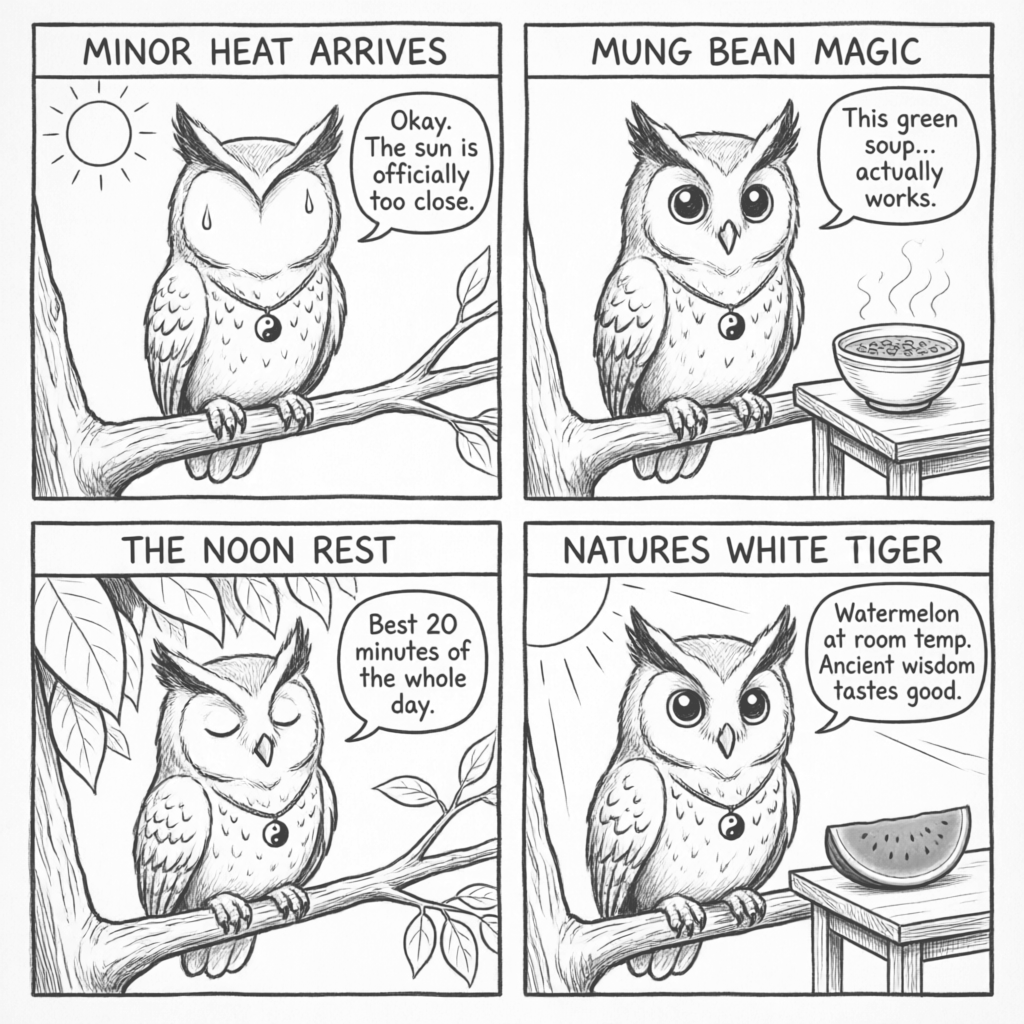
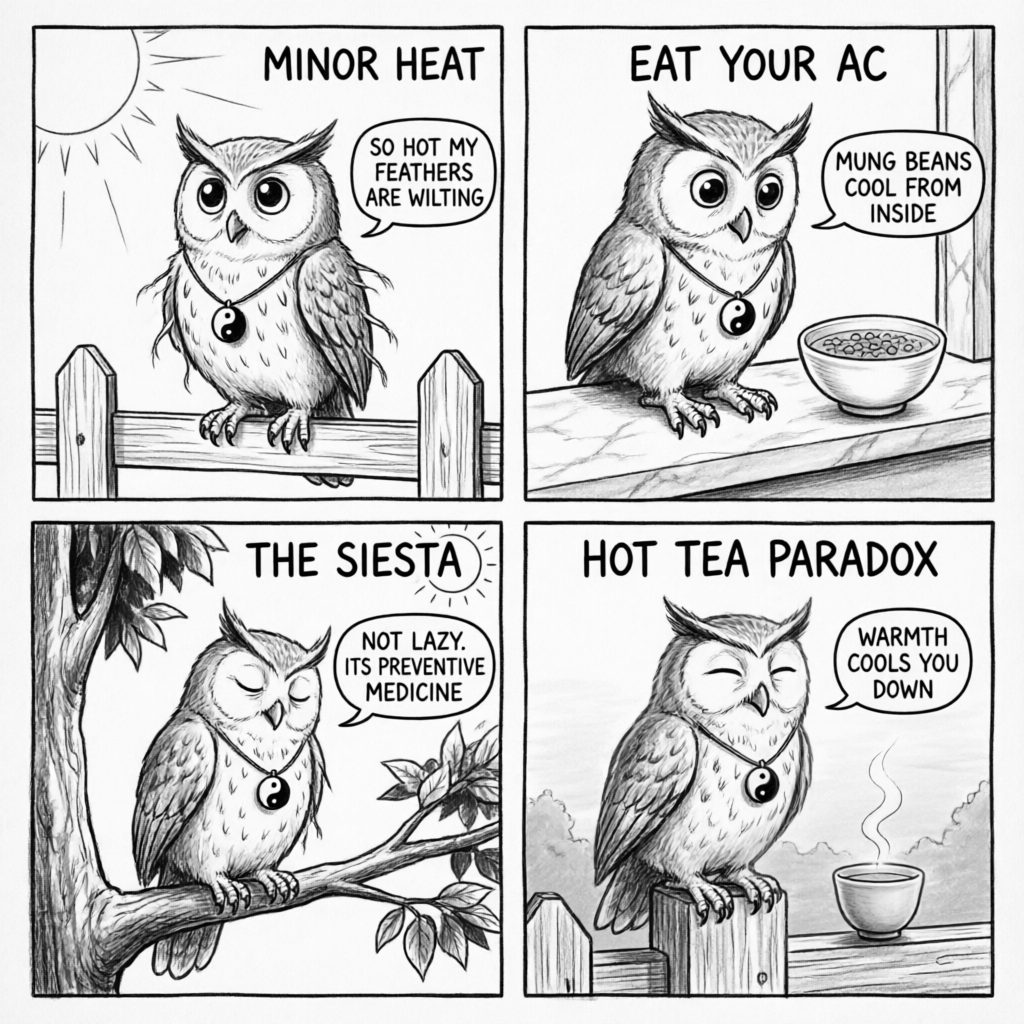
feat: rewrite #33 J01 Minor Heat — Gemini 2.5 Pro + Opus 4 review (R3 8.8)

diff --git a/posts/33-how-ancient-china-survived-summer-without-air-conditioning.html b/posts/33-how-ancient-china-survived-summer-without-air-conditioning.html
@@ -17,7 +17,7 @@
 <meta name="description" content="On Xiaoshu (Minor Heat), explore how ancient China's 24 solar terms organized an entire civilization around the body's relationship with summer — and what mung bean soup, the midday nap, and classical TCM can teach us about surviving the heat.">
 <meta property="og:title" content="How Ancient China Survived Summer Without Air Conditioning (And What That Teaches Us Today)">
 <meta property="og:description" content="On Xiaoshu (Minor Heat), explore how ancient China's 24 solar terms organized an entire civilization around the body's relationship with summer — and what mung bean soup, the midday nap, and classical TCM can teach us about surviving the heat.">
-<meta property="og:image" content="https://tcmway.net/images/brand/logo-tcmway-header.png">
+<meta property="og:image" content="https://tcmway.net/images/comic-33-bw.png">
 <meta property="og:url" content="https://tcmway.net/posts/33-how-ancient-china-survived-summer-without-air-conditioning.html">
 <meta property="og:type" content="article">
 <meta property="og:site_name" content="TCM Way">
@@ -97,98 +97,141 @@
   <div class="meta">July 7, 2026 · By Ollie</div>
   <div class="last-updated" style="color:var(--subtle);font-size:0.85rem;margin-top:0.3rem;">Last updated: July 7, 2026</div>
 
-<p>Before air conditioning. Before electric fans. Before ice delivery trucks. Before any of the technology we now consider essential for surviving July, there were 1.5 billion people living through China's brutal summers. For four thousand years. Not barely surviving — thriving. Writing poetry about cicadas. Harvesting crops on schedule. Raising children through heat waves that would send modern city-dwellers to the emergency room.</p>
-<p>How?</p>
+
+<p>It’s that time of year. Outside, the pavement is shimmering and the thermometer is pushing 97°F (36°C). Inside, you’ve got the air conditioner blasting so hard you’re thinking about putting on a sweater. The hum of the machine is the soundtrack to your summer.</p>
+
+<p>Now, picture this: the Tang Dynasty, around 800 AD. The summers are just as brutal, if not more so. There’s no electricity, no freon, no remote control to tap. Yet, people are not just surviving—they’re thriving. They’re writing world-renowned poetry, building magnificent cities, and raising families. How on earth did they do it?</p>
 <div class="ollie-take-badge">
   <img src="/images/brand/pendant-mini-40.png" alt="" width="22" height="22">
   <span>Ollie's Take</span>
 </div>
 <img class="comic-break" src="/images/comic-33-bw.png" alt="Ollie the screech owl experiences Minor Heat — from blazing sun to mung bean soup, napping, and watermelon at dusk" loading="lazy">
-<p>The answer isn't one trick or one food or one herb. It's an entire system — a way of organizing time itself around the body's relationship with the natural world. And today, on the first day of Xiaoshu (Minor Heat), we're going to explore how that system works, and what it can teach those of us who've forgotten how to live with summer instead of hiding from it.</p>
-<h2>What Is Minor Heat? The Calendar Your Body Already Knows</h2>
-<p>The 24 solar terms are not astrology. They're not folklore. They're an agricultural-medical calendar refined over more than two thousand years — arguably the longest-running public health system in human history.</p>
-<p>Each term marks a precise astronomical position: the sun reaching a specific degree of celestial longitude. Minor Heat arrives when the sun hits 105 degrees. It's the eleventh term in the cycle, and its name tells you exactly what to expect: the heat is no longer a suggestion, but it hasn't reached its peak. That comes later, at Major Heat (Dashu), two weeks from now.</p>
-<p>In the Yuan Dynasty text <em>Explanations of the 72 Phenological Terms</em> (Yueling Qishier Hou Jijie), Minor Heat is described through three natural signs: hot winds arrive, crickets move from the fields into courtyards seeking shade, and young eagles begin learning to hunt. These aren't poetic flourishes — they're environmental data points. When the crickets come to your door, it's time to adjust how you eat, sleep, and move.</p>
-<p>The core philosophy here matters: ancient Chinese didn't fight the heat, and they didn't hide from it. They adapted to it. This is TCM's deepest instinct — harmony over conquest, alignment over resistance. Summer comes; your job is not to defeat it but to move with it.</p>
-<h2>Your Body in Minor Heat: Why You Feel Like You're Losing Your Mind</h2>
-<p>In TCM's Five Element framework, summer belongs to Fire, and Fire connects to the Heart. Not just the physical organ — the Heart system, which includes what we'd call cardiovascular function, but also consciousness itself.</p>
-<p>The Heart houses the Shen — your spirit, your mind, your capacity for clear thought and emotional stability. When external summer heat rises, it can resonate with the Heart's internal fire, causing what TCM calls Heart Fire Blazing Upward. The symptoms are surprisingly specific: you feel irritable for no reason, your sleep gets restless and fragmented, your mouth is dry even when you're drinking water, and the tip of your tongue — if you check in the mirror — is noticeably redder than the rest.</p>
-<p>This is why hot weather makes people aggressive. It's not just discomfort; it's a physiological pattern.</p>
-<p>Ollie, perched on a low branch with wings slightly spread to release body heat, demonstrates this perfectly. When his ear tufts start drooping, he knows it's time to find shade. Your body sends similar signals — that afternoon irritability, that restless energy with nowhere to go — it's not your personality failing. It's your Heart Fire asking for attention.</p>
-<p>The <em>Huangdi Neijing</em> (Yellow Emperor's Inner Classic), written over two thousand years ago, describes summer's effect with precision:</p>
-<p>> "In the three months of summer, heaven and earth unite, all things flower and bear fruit. Go to bed late and rise early, do not despise the sun. Let your spirit be free of anger. Allow beauty to manifest fully. Let the Qi flow as if your inner self were in love with the outer world. This is the Way of nourishing growth in summer."</p>
-<p>That phrase — "do not despise the sun" (wu yan yu ri) — doesn't mean bake yourself on a beach until you blister. It means don't seal yourself inside an air-conditioned box so completely that your body loses its ability to adapt. The body needs a relationship with the season it's living in, even if that relationship is carefully managed.</p>
-<p>Ollie knows this. He's a screech owl — a creature designed for cool nights, not blazing afternoons. During Minor Heat, you'll find him under the biggest leaf he can locate, wings slightly spread to release body heat, pendant catching the dappled light. "Summer is lovely," he'll tell you, blinking slowly, "from approximately 4 AM to 6 AM. The rest of it is a personal attack."</p>
-<h2>What to Eat: The TCM Summer Paradox</h2>
-<p>Here's where Western intuition and TCM logic diverge sharply. You're hot. You want ice water. You want a massive cold smoothie. You want to eat salad three meals a day.</p>
-<p>TCM says: that is exactly how you make yourself sick in summer.</p>
-<p>The reasoning is counterintuitive but internally consistent. Your digestive system — the Spleen and Stomach in TCM terms — runs on warmth. It's a cooking pot. When you pour ice water into a hot cooking pot, the pot cools down. Digestion slows. Food sits undigested. This undigested matter becomes what TCM calls "dampness" — a heavy, sticky, obstructive quality that shows up as bloating, loose stools, brain fog, and that specific summer lethargy that feels like you're walking through warm soup.</p>
-<p>The solution isn't to avoid anything cold-touch — it's to use foods that are cooling in their energetic nature while still being warm or room temperature in your mouth. This is the difference between "cold-natured" (liang xing) and "cold-temperature" (bing de). One works with your body; the other works against it.</p>
-<p><strong>Mung Bean Soup</strong> (Lü Dou Tang) is the undisputed king of Chinese summer drinks. Mung beans clear heat, relieve summer heat toxicity, and generate fluids. The <em>Compendium of Materia Medica</em> (Bencao Gangmu) by Li Shizhen documents its use going back centuries. One important rule: don't load it with sugar. A small piece of rock sugar is traditional; a Starbucks-level syrup dump cancels the cooling effect and creates dampness.</p>
-<p><strong>Watermelon</strong> (Xi Gua) has a TCM nickname that tells you everything you need to know: "Natural White Tiger Decoction." White Tiger Decoction (Bai Hu Tang) is one of the most powerful heat-clearing formulas in Chinese medicine, used for high fevers with four big symptoms — big thirst, big sweat, big pulse, big heat. Watermelon is food-grade Bai Hu Tang. It clears summer heat and generates fluids with remarkable speed. But eat it at room temperature — not ice-cold — and don't eat half a watermelon in one sitting. Too much cold-natured food, even at room temperature, can still damage the Spleen over time.</p>
-<p><strong>Bitter Melon</strong> (Ku Gua) is an acquired taste. The bitterness enters the Heart channel specifically, making it one of the most targeted foods for clearing Heart Fire. If Minor Heat has you irritable, restless, and tongue-tip-red, bitter melon is worth learning to tolerate. Stir-fry it with a little egg to take the edge off.</p>
-<p><strong>Chrysanthemum Tea</strong> (Ju Hua Cha) is the gentler option — a pale yellow tea made from dried chrysanthemum flowers. It's mildly cooling, supports the eyes through the Liver channel, and has been a Chinese summer staple since the Song Dynasty. For the modern office worker staring at screens while summer heat pounds the windows, chrysanthemum tea solves two problems at once.</p>
-<p>What to avoid entirely during Minor Heat: ice-cold drinks with meals (this is the biggest one — it's like throwing a fire extinguisher into your digestive furnace at the exact moment it's trying to process food), excessive raw salads (raw = cold nature + damp-producing), and heavy meals after 8 PM (your digestive fire is naturally weaker in the evening; asking it to process a steak at 10 PM in July is a recipe for waking up at 3 AM with stomach acid in your throat).</p>
-<p>Ollie, perched on a branch above a bowl of mung bean soup, tilts his head. "Humans drink iced lattes in 35-degree heat and then wonder why their stomach feels like a swamp. You wouldn't pour cold water into a running engine. Your Spleen is an engine. Treat it accordingly."</p>
-<h2>The Summer Nap: China's Most Underrated Health Practice</h2>
-<p>Somewhere along the way, Western culture decided naps were for toddlers and the unemployed. Chinese culture never got that memo, and the summer nap may be the single practice most worth importing.</p>
-<p>The TCM clock is specific: 11 AM to 1 PM is the Heart channel's peak period (wushi). This is when Heart Qi is naturally at its strongest — and, paradoxically, its most vulnerable. A short rest during this window supports Heart Yin, calms Heart Fire, and resets the Shen for the second half of the day.</p>
-<p>Modern science has caught up. A 2019 meta-analysis in <em>Sleep Medicine Reviews</em> found that midday napping of 20-30 minutes significantly improved cognitive performance, reduced subjective fatigue, and lowered afternoon cortisol levels. A 2020 study in <em>Heart</em> (the British cardiovascular journal) found that occasional napping was associated with a 48% lower risk of cardiovascular events. The mechanism, the researchers proposed, involved the nap's effect on stress hormones and blood pressure regulation — which maps directly onto TCM's understanding of Heart Fire calming during rest.</p>
-<p>The TCM version of the nap is not a deep, drooling, three-hour crash. It's 15 to 30 minutes. You don't need to fall into REM sleep. You just need to close your eyes, breathe slowly, and let your body temperature drop a fraction of a degree. Elevating your feet slightly helps — it supports venous return and takes pressure off the Heart. A thin cloth over your eyes blocks the liver-agitating brightness of midday.</p>
-<p>In offices across China during summer, this is completely normal. Colleagues pull out neck pillows after lunch, dim the lights, and rest for twenty minutes. Nobody thinks it's lazy. They think it's July, and they think July is hot, and they think hot bodies need rest. This is not cultural quirk — it's physiological literacy.</p>
-<h2>The Deeper Pattern: Why We Forgot How to Live With Seasons</h2>
-<p>The 24 solar terms didn't survive two millennia because they were quaint. They survived because they encoded real patterns about how human bodies interact with environmental cycles. Xiaoshu isn't just a date — it's a signal. Hot winds. Crickets in the courtyard. Young eagles learning to hunt. Time to eat mung beans, time to nap at noon, time to let go of anger.</p>
-<p>Modern life has severed most of these signals. We don't feel the hot winds because we're in air-conditioned buildings. We don't see the crickets because we live in cities. We don't notice the eagles because we're looking at screens. The calendar is the same — July is July — but our bodies have lost access to the environmental cues that used to tell them how to respond.</p>
-<p>The TCM approach doesn't require you to become a farmer or throw away your AC. It asks something smaller and harder: pay attention. Notice that you're more irritable in July, and that this is your body, not your personality. Notice that your digestion gets sluggish in humid heat, and adjust what you eat accordingly. Notice that a twenty-minute rest at noon changes the whole arc of your afternoon.</p>
-<p>Summer comes every year. Your body knows this. The question is whether you'll listen.</p>
-<p>---</p>
-<h2>Ollie Speaks</h2>
-<p>> Ollie adjusts his grandmother's yin-yang pendant, red ear tufts drooping slightly in the afternoon heat.</p>
-<p>></p>
-<p>> Look, I'm an owl. I was literally designed for midnight. My eyes are the size of my skull. I can hear a mouse's heartbeat from thirty meters. But put me in Minor Heat at 2 PM, and I'm a feathered puddle on a branch, questioning every life choice that led me to this moment.</p>
-<p>></p>
-<p>> So believe me when I say: if I can find a way to enjoy summer — and I have, mostly by sleeping through the worst of it and eating watermelon at dusk — you can too. The ancient Chinese figured this out two thousand years ago without electricity. The least we can do is take the nap.</p>
-<p>></p>
-<p>> — Ollie (who will be under that big maple leaf if anyone needs him)</p>
+
+
+
+<p>They didn't have technology, but they had something else: a sophisticated operating manual for the human body, fine-tuned to the rhythms of nature. They understood that the world outside is mirrored by a climate inside us. And their guide was the 24 Solar Terms.</p>
+
+<p><em>A small barn owl settles on my desk, jade pendant glinting in the afternoon light. "The ancients knew something we've forgotten," Ollie hoots softly, preening a wing. "They didn't fight the seasons—they danced with them."</em></p>
+
+<h2>Welcome to Minor Heat: Summer's First Warning Shot</h2>
+
+<p>Right now, we’re entering the 11th solar term: Minor Heat, or <em>Xiao Shu</em> (小暑). Don’t let the name fool you. The word “minor” isn’t a description; it’s a warning. It means the oppressive, steam-bath heat of Major Heat (<em>Da Shu</em>) is still to come. This is just the opening act.</p>
+
+<p>Ancient observers, with no weather apps to consult, looked to nature for their updates. They divided each solar term into three five-day micro-seasons. For Minor Heat, the signals were clear:</p>
+
+<ol>
+<li><strong>Warm winds arrive:</strong> The breezes are no longer refreshing. They start to feel like you’re opening a hot oven.</li>
+<li><strong>Crickets move indoors:</strong> The crickets, seeking refuge from the heat, begin to appear in the cooler corners of homes.</li>
+<li><strong>Young eagles learn to hunt:</strong> The intense Yang energy of the season fuels growth and activity, and even young predators feel the push to mature and practice their skills.</li>
+</ol>
+
+<p>Think of it as nature’s bulletin board, posting daily updates on the changing season. For our ancestors, these weren't just quaint observations; they were direct instructions on how to adjust their own lives, diet, and daily rhythm to stay in balance.</p>
+
+<h2>The TCM Lens: Your Body's Internal Climate</h2>
+
+<p>So what’s happening inside <em>your</em> body during Minor Heat? According to Traditional Chinese Medicine, summer is a season of explosive Yang energy. Your internal Qi is doing the same thing the grass, trees, and animals are doing: expanding outward and upward.</p>
+
+<p>This creates a few predictable patterns. First, your Yang Qi rushes to the surface of your body. This is why you sweat easily. Your pores are open, releasing heat to keep your core temperature stable. This is your body’s brilliant, built-in air conditioning system.</p>
+
+<p>Second, this outward rush of energy can leave the interior, specifically your digestive system (governed by the Spleen and Stomach), relatively "cool" and deficient. This is why you might lose your appetite in the summer or feel sluggish after a heavy meal. The Spleen, which dislikes dampness, gets overwhelmed by both external humidity and too many iced drinks.</p>
+
+<p>Finally, summer belongs to the Heart, the emperor of the organ systems and the house of our spirit, or <em>Shen</em>. When external heat is blazing, the internal Heart Fire can easily flare up. This doesn't manifest as a fever, but as restlessness, anxiety, insomnia, and a short temper. Ever felt inexplicably irritable on a scorching day? That's Heart Fire talking.</p>
+
+<p>But not all summer discomfort is the same. If you're irritable with a red face and bitter taste, that's excess Heat in the Heart. If you have night sweats and feel hot in your palms and soles, that's Heart Yin deficiency needing nourishment, not just cooling. And if you feel heavy-limbed with poor appetite and nausea, that's Summer-Heat combined with Dampness — a different pattern entirely. TCM doesn't treat "summer." It treats the specific pattern you're manifesting.</p>
+
+<p>The classic medical text, the <em>Huangdi Neijing</em> (Yellow Emperor's Inner Classic), gives us a clear directive for this season: "In the three months of summer, one should go to bed late and rise early, never be tired of the sun, and let the mind be free from anger." In other words, sync up with the long days, embrace the vibrant energy, and don't let the heat make you angry. It’s about flow, not resistance.</p>
+
+<h2>Eat Your Air Conditioning</h2>
+
+<p>If you can’t turn on the AC, you have to find another way to cool down. For centuries, the primary method was food. But this isn't just about eating "cold" foods from the fridge. It's about consuming foods with a cooling <em>energetic</em> property, a concept TCM calls "clearing Summer-Heat" (清暑, <em>Qing Shu</em>).</p>
+
+<p>This is different from the Western idea of "staying hydrated." Hydration is about replacing water. Clearing Summer-Heat (清暑) works through specific mechanisms: foods like mung beans promote urination to drain heat downward, watermelon generates fluids while cooling, and bitter foods like bitter melon purge heat through the intestines. This isn't just "cooling off" — it's strategic heat elimination through different pathways.</p>
+
+<p>Here are some of the all-stars from nature’s pharmacy:</p>
+
+<ul>
+<li><strong>Mung Beans (绿豆, <em>Lu Dou</em>):</strong> If there’s one food for a Chinese summer, this is it. Mung bean soup (<em>Lu Dou Tang</em>) is a staple. These little green beans are champions at clearing Heat from the body, resolving toxins, and quenching thirst. They are a gentle but effective way to cool the system from the inside out.</li>
+<br>
+<li><strong>Watermelon (西瓜, <em>Xi Gua</em>):</strong> No surprise here! Watermelon is so effective at clearing summer heat and generating fluids that it was nicknamed "Nature's White Tiger Decoction" in classical texts—a reference to a powerful herbal formula used for high fevers. It’s juicy, refreshing, and cools you down instantly for a reason.</li>
+<br>
+<li><strong>Bitter Melon (苦瓜, <em>Ku Gua</em>):</strong> The flavor is a giveaway. In TCM, bitter flavors have a draining, drying action. Bitter melon excels at draining Heart Fire and resolving Summer-Heat. It might be an acquired taste, but a little bit in a stir-fry or soup can work wonders for that overheated, agitated feeling.</li>
+<br>
+<li><strong>Lotus Seed (莲子, <em>Lian Zi</em>):</strong> While other foods clear Heat, lotus seeds do something more subtle and just as important: they calm the Heart. Remember that flared-up Heart Fire? Lotus seeds nourish the Heart Yin and quiet the <em>Shen</em> (spirit), helping to ease the anxiety and restlessness that come with extreme heat.</li>
+</ul>
+
+<p>By incorporating these foods, you’re not just eating a meal; you’re actively managing your internal thermostat.</p>
+
 <blockquote class="ollie-speaks">
   <img src="/images/ollie-mini-80.png" alt="Ollie the Screech Owl">
   <div class="bubble">
-    <p>Ollie adjusts his grandmother's yin-yang pendant, red ear tufts drooping slightly in the afternoon heat.<br><br>Look, I'm an owl. I was literally designed for midnight. My eyes are the size of my skull. I can hear a mouse's heartbeat from thirty meters. But put me in Minor Heat at 2 PM, and I'm a feathered puddle on a branch, questioning every life choice that led me to this moment.<br><br>So believe me when I say: if I can find a way to enjoy summer — and I have, mostly by sleeping through the worst of it and eating watermelon at dusk — you can too. The ancient Chinese figured this out two thousand years ago without electricity. The least we can do is take the nap.<br><br>— Ollie (who will be under that big maple leaf if anyone needs him)</p>
+    <p>Hoo-hoo!Ollie here. I've found a nice, cool spot on a marble windowsill to watch the humans scurry about. My little jade pendant feels wonderfully cool against my chest feathers. It's a hot one today!<br><br>People get so busy in the summer, rushing here and there. But have you ever watched a cat? Or a dog? Or, well, an owl? When the sun is at its highest and hottest, we find shade and we get very, very still. I tuck my head under my wing, letting my jade pendant rest cool against my breast feathers. My ear tufts barely even twitch, and I can feel my heart rate slow to match the lazy afternoon breeze. My talons relax their grip on the marble, and I shift my weight from foot to foot, keeping each one cool in turn. We conserve our energy.<br><br>Humans think resting is unproductive. We animals know it’s the most productive thing you can do when the world is blazing. A little midday quiet isn't laziness; it’s wisdom. Now, if you’ll excuse me, this sunbeam is getting a little too close. Time for a pre-dusk nap. Hoo!<br></p>
     <p>&mdash; Ollie</p>
   </div>
 </blockquote>
-<h2>Five Things You Can Do Today</h2>
-<p>If you take nothing else from this article, here are five practices that actually work during Minor Heat. None of them require special equipment, expensive herbs, or a radical lifestyle change. They just require paying attention.</p>
-<p><strong>1. Swap your afternoon coffee for chrysanthemum tea. Coffee is warming and drying — the opposite of what your body needs when Heart Fire is already elevated. Chrysanthemum tea (Ju Hua Cha) is mildly cooling, supports the eyes, and has been a Chinese summer staple since the Song Dynasty. You can find dried chrysanthemum flowers at any Asian grocery store. Steep 5-6 flowers in hot water for three minutes. That's it.</strong></p>
-<p><strong>2. Eat one room-temperature watermelon slice daily. Not ice-cold — room temperature. Watermelon is "Natural White Tiger Decoction" in food form, clearing summer heat and generating fluids without the digestive damage of ice. One generous slice is enough. More than that and the cold-natured food starts working against your Spleen.</strong></p>
-<p><strong>3. Rest your eyes for five minutes at noon. You don't need a full nap. Close your eyes, breathe slowly through your nose (four counts in, six counts out), and let your attention drop from your head to your lower abdomen. This is a deliberate nervous-system downshift during the Heart channel's peak window (11 AM-1 PM). Set a timer so you don't fall asleep.</strong></p>
-<p><strong>4. No ice with meals. This is the single biggest lever. Ice water with food extinguishes your digestive fire at exactly the moment you need it most. Drink room-temperature water or warm tea with meals. Save the cold drinks for between meals and drink them slowly.</strong></p>
-<p><strong>5. Exercise before 8 AM or after 7 PM. The Heart channel is most vulnerable between 11 AM and 3 PM. Exercising during that window in summer heat is like asking a tired engine to climb a hill. If you must exercise midday, reduce intensity by 30-40 percent and replace fluids with warm water, not sports drinks.</strong></p>
-<p>These five practices are not magic. They're pattern recognition — the accumulated observation of two thousand years of summers, distilled into actions you can take tomorrow. The crickets are in the courtyard. The hot winds have arrived. You know what to do.</p>
-<h2>FAQ</h2>
-</div>
-<div class="faq-item"><h3>Is it really harmful to drink ice water when it's 35°C outside?</h3>
-</div>
-<p>It depends on when and how much. A small amount of cold water between meals, drunk slowly, is unlikely to cause problems for most people. The real damage comes from large volumes of ice-cold liquid with meals — this directly impairs the Spleen and Stomach's ability to transform food into usable energy. If you already have digestive issues, loose stools, bloating, or fatigue after eating, you should avoid ice water entirely during summer. Room-temperature water with a slice of lemon or a few chrysanthemum flowers gives you the cooling sensation without the digestive cost.</p>
-</div>
-<div class="faq-item"><h3>I don't have time for a midday nap. Is there a shorter alternative?</h3>
-</div>
-<p>Yes. Even five minutes of closed-eye rest during the 11 AM-1 PM window helps. The key is sensory withdrawal — close your eyes, breathe slowly through your nose (four counts in, six counts out), and let your attention drop from your head to your lower abdomen. This isn't sleep; it's a deliberate downshift of the nervous system. If even five minutes is impossible, try the "palming" technique: rub your palms together until they feel warm, then place them gently over your closed eyes for sixty seconds. This cools the Liver (which governs the eyes) and briefly interrupts the stimulus loop that keeps Heart Fire agitated.</p>
-</div>
-<div class="faq-item"><h3>Can I still exercise in Minor Heat?</h3>
-</div>
-<p>Yes, but adjust your timing and intensity. Exercise in the early morning (before 8 AM) or late evening (after 7 PM) when external heat is lower. Avoid high-intensity workouts during the peak heat hours of 11 AM-3 PM — this is when the Heart channel is most active and most vulnerable to overexertion. Swimming is ideal because the water's cooling nature balances the exercise's heat-generating quality. If you must exercise midday, reduce intensity by 30-40% from your normal level, and replace lost fluids with warm or room-temperature water, not sports drinks packed with sugar and artificial cold energy.</p>
-</div>
-</div>
-<h2>Sources</h2>
-<p>- <em>Huangdi Neijing, Suwen, Chapter 2: The Great Treatise on Regulating the Spirit with the Four Seasons</em> (四气调神大论) — foundational text describing seasonal living principles, ~200 BCE</p>
-<p>- <em>Yueling Qishier Hou Jijie</em> (月令七十二候集解), Yuan Dynasty — the authoritative reference on the 72 phenological signs of the 24 solar terms</p>
-<p>- <em>Bencao Gangmu</em> (本草纲目), Li Shizhen, Ming Dynasty (1596) — compendium documenting mung bean, watermelon, chrysanthemum, and bitter melon properties</p>
-<p>- Chen, G. et al. (2019). "The effects of midday napping on cognitive function: A systematic review and meta-analysis." <em>Sleep Medicine Reviews</em></p>
-<p>- Häusler, N. et al. (2020). "Association of napping with incident cardiovascular events in a prospective cohort study." <em>Heart</em></p>
-</ul></div>
 
-  <!-- SUBSCRIBE -->
+<h2>The Hot Tea Paradox: Fighting Fire with… Warmth?</h2>
+
+<p>This is where things get counterintuitive. On a sweltering day, what’s your first instinct? To grab an ice-cold soda or a frosty beer, right? I learned this lesson the hard way myself.</p>
+
+<p>Years ago, during a particularly brutal heatwave, I spent a week chugging ice water and smoothies. I thought I was being smart. But instead of feeling refreshed, I felt bloated, sluggish, and even more tired. My digestion came to a grinding halt. What was going on?</p>
+
+<p>A TCM practitioner friend laughed and handed me a cup of hot chrysanthemum tea. I thought she was crazy. But I drank it, and within minutes, I felt a gentle wave of perspiration break out across my skin. Suddenly, I felt lighter and genuinely cooler.</p>
+
+<p>Here’s the logic: Your digestive system is like a furnace. When you dump a bucket of ice water into it, the furnace has to work overtime to heat that liquid up to body temperature, consuming precious Qi in the process. This sudden cold shock also causes the blood vessels in your stomach to contract, trapping heat inside your core and hindering digestion.</p>
+
+<p>Sipping a warm or hot beverage, however, does the opposite. It gently raises your core temperature just enough to signal your body to open the pores and sweat more efficiently. Sweating is your body's primary cooling mechanism. A warm drink works *with* your body’s natural process, helping it release heat instead of trapping it. It’s a beautiful paradox: a little warmth on the inside creates coolness on the outside.</p>
+
+<h2>The Midday Siesta: Not Laziness, but Strategy</h2>
+
+<p>In many cultures across the world’s hot climates, the afternoon nap is a sacred ritual. This isn’t a sign of laziness; it’s a brilliant piece of preventative medicine, perfectly aligned with the body’s clock in TCM.</p>
+
+<p>The hours between 11 a.m. and 1 p.m. are the time of the Heart meridian. This is when the Heart’s Qi is at its peak, and it’s also, not coincidentally, the hottest part of the day. Pushing yourself with intense work or exercise during this window is like adding fuel to a potential fire. You’re asking the Emperor (the Heart) to run a marathon in the middle of a heatwave.</p>
+
+<p>A short rest—even just 15 to 20 minutes of quiet time with your eyes closed—is incredibly restorative. It gives the Heart a chance to recharge, calms the <em>Shen</em>, and helps to prevent that Heart Fire from flaring up later in the day. It helps you digest your lunch properly and gives you a stable reserve of energy for the rest of the afternoon, rather than relying on a caffeine-fueled second wind.</p>
+
+<p>So the next time you feel that post-lunch slump on a hot day, don’t fight it. See it as a signal from your body. Find a quiet corner and take a brief rest. You’re not wasting time; you’re investing in your well-being.</p>
+
+<hr>
+
+<p>The wisdom of the 24 Solar Terms is not about predicting the weather. It’s a complete operating manual for the human body, reminding us every 15 days to pause, observe, and adjust. In our modern world of climate-controlled boxes, we’ve forgotten how to read the signals from nature and from our own bodies.</p>
+
+<p>We’ve outsourced our comfort to a machine. But true, lasting balance comes from within. The teachings of Minor Heat remind us that we have a powerful, innate ability to adapt and thrive, no matter how high the thermometer climbs.</p>
+
+<p><strong>Your takeaway this week:</strong> Try making one small change. Swap just one of your icy drinks for a cup of warm mint or chrysanthemum tea. Or, carve out 15 minutes for a quiet rest after lunch. Don’t just do it; pay attention to how your body feels afterward. You might be surprised at the results.</p>
+
+<h2>Your Minor Heat Action Plan</h2>
+
+<ol>
+<li><strong>Swap one icy drink today:</strong> Replace your afternoon iced coffee with warm chrysanthemum or mint tea. Notice how your body responds over the next hour.</li>
+<li><strong>Schedule a mini-siesta:</strong> Set a 15-minute timer after lunch tomorrow. Find a quiet spot, close your eyes, and let your Heart meridian recharge during its peak hours (11am-1pm).</li>
+<li><strong>Cook with cooling foods:</strong> This week, try making mung bean soup or adding bitter melon to a stir-fry. Start with small amounts to let your palate adjust.</li>
+<li><strong>Observe nature's signals:</strong> Step outside in the early morning. Can you feel the warm winds? Hear the crickets? These aren't just weather reports—they're your body's seasonal guidebook.</li>
+</ol>
+
+<hr>
+
+<h2>FAQ</h2>
+<div class="faq-item"><h3>Is it really that bad to drink cold water in the summer?</h3>
+<p>From a TCM perspective, while an occasional cold drink isn't a disaster, making it a habit can be detrimental. Icy drinks shock the digestive system (the Spleen and Stomach), forcing it to expend extra energy (Qi) to warm the liquid. This can lead to weakened digestion, feelings of bloating, and paradoxically, trapping heat within the body's core. Warm or room-temperature drinks support the digestive process and encourage sweating, the body's natural cooling mechanism.</p>
+</div>
+<div class="faq-item"><h3>What are some other "cooling" foods I can try?</h3>
+<p>Besides the ones mentioned, many other foods have a cooling energetic property. Try adding cucumber, celery, mint, lettuce, and fruits like pears and strawberries to your diet. Tofu is also considered cooling and is a great source of protein for summer meals. The key is to focus on foods that are hydrating and don't feel "heavy" in your stomach.</p>
+</div>
+<div class="faq-item"><h3>Why is the Heart so important in summer according to TCM?</h3>
+<p>In the Five Element theory of TCM, each season is associated with an organ system. Summer belongs to the Fire element, and its corresponding organ is the Heart. The Heart is responsible for circulating blood and is considered the "Emperor" of the body, housing the mind and spirit (Shen). The intense heat and vibrant energy of summer can easily over-stimulate the Heart, leading to what's called "Heart Fire," which manifests as anxiety, insomnia, palpitations, and irritability. Therefore, protecting and calming the Heart is a primary health strategy during the summer months.</p>
+</div>
+
+<hr>
+
+<h2>Sources</h2>
+<ul>
+    <li><em>Huangdi Neijing</em> (黄帝内经) - The Yellow Emperor's Inner Canon</li>
+    <li><em>Yueling Qishi'er Hou Jijie</em> (月令七十二候集解) - Collection of the 72 Pentads of the Monthly Commands</li>
+    <li><em>Bencao Gangmu</em> (本草纲目) - Compendium of Materia Medica</li>
+</ul>
+
+
+<!-- SUBSCRIBE -->
   <div style="margin:2rem 0; padding:1.2rem 1.5rem; background:var(--light); border-radius:8px; border-left:3px solid var(--accent);">
     <p style="margin:0 0 0.6rem; font-size:0.95rem;"><strong>Enjoyed this?</strong></p>
     <p style="margin:0 0 0.8rem; font-size:0.88rem; color:var(--subtle);">
